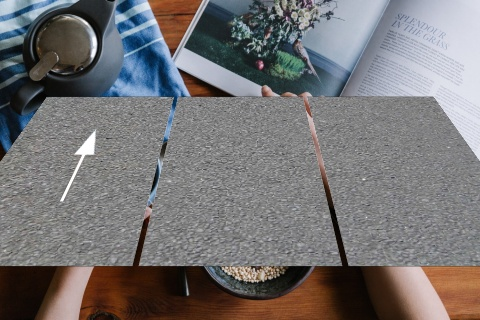
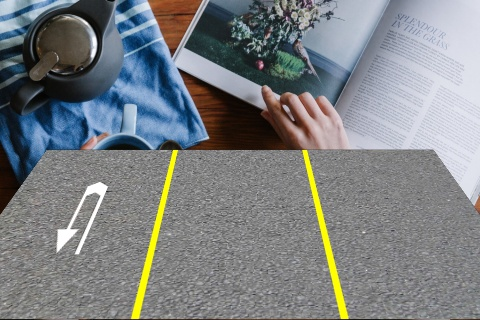
Added function to keep road on the bottom of the image

diff --git a/GenerateAsphalt.py b/GenerateAsphalt.py
@@ -218,6 +218,39 @@ def rotate(image, theta, phi, gamma, dx, dy, dz):
 
     # Using cv2 to warp the image
     return cv2.warpPerspective(image.copy(), TM, (w, h))
+
+def bring_to_bottom(image):
+    # This function brings the template to the bottom of the image
+
+    # Getting image dimensions
+    h, w, _ = image.shape
+
+    # Creating empty template
+    new_image = generate_empty_templates_layer((w, h))
+
+    # Defining a empty line
+    empty_line = np.zeros((1, w, 4), dtype=np.uint8)
+
+    # Counting the amount of lines to go down
+    lines = h
+    counter = 0
+    for i in range(lines):
+
+        a1 = image[:][h - i - 1]
+        a2 = empty_line[:][0]
+
+        # Verifying if the lines are equal
+        equality = np.sum(np.all(np.equal(a1, a2)))
+
+        if equality:
+            counter+= 1
+        else:
+            break
+
+    # Redrawing the image:
+    new_image[:][counter:h] = image[:][0:h-counter]
+
+    return new_image, counter
     
 
 # Testing the code:
@@ -237,6 +270,7 @@ img = blend_layers(asphalt_bg, templates)
 # Warping perspective
 rotation_radians = ROTATION_DEGREES/180.00 * math.pi
 img = rotate(img, rotation_radians, 0, 0, 0, 0, 0) # Rotating the image in X
+img, _ = bring_to_bottom(img) # Bringing template to bottom
 
 img = blend_layers(weird_bg, img)
 save_image(img) # Saving the image
